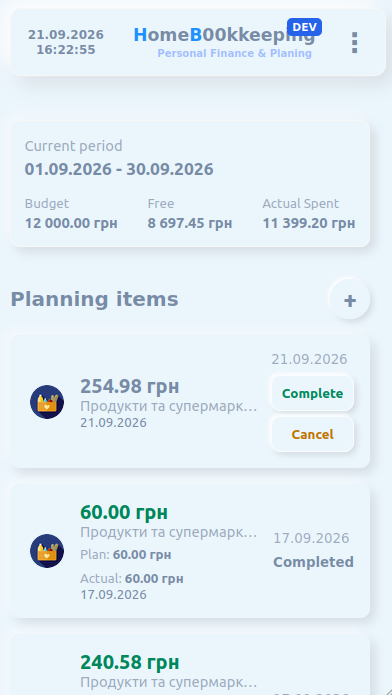
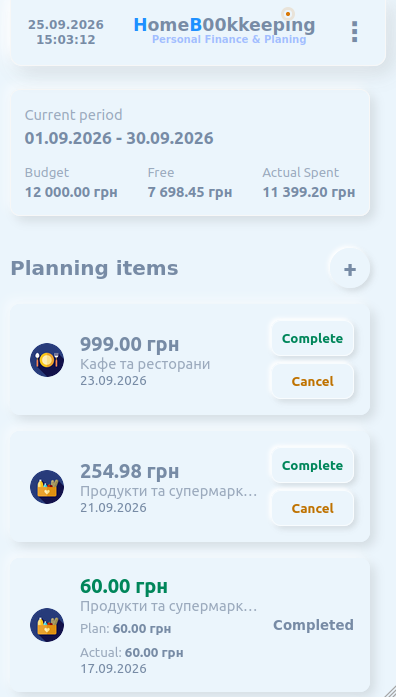
added screens updated readme

diff --git a/frontend/hbapp/pages/PlaningPage.js b/frontend/hbapp/pages/PlaningPage.js
@@ -347,7 +347,7 @@ export default class PlaningPage extends AbstractClass {
 			actions.push('<button class="planing-status-btn" type="button" data-action="planning-pending" data-status="pending">Pending</button>')
 		}
 
-		return actions.length ? `<div class="planing-item-actions 222">${actions.join('')}</div>` : ''
+		return actions.length ? `<div class="planing-item-actions">${actions.join('')}</div>` : ''
 	}
 
 	getTransactionInfoTemplate(item, compact = false) {
@@ -417,8 +417,8 @@ export default class PlaningPage extends AbstractClass {
 						<span>${this.formatPlanningDate(item.date)}</span>
 					</div>
 				</button>
-				<div class="planing-item-meta d-none">
-					<span>${this.formatPlanningDate(item.date)}</span>
+				<div class="planing-item-meta">
+					<!--span>${this.formatPlanningDate(item.date)}</span-->
 					<button class="planing-transaction-btn d-none" type="button" data-action="planning-transactions-open" data-itemid="${item.id}">Transactions</button>
 					${status === 'pending' ? actionsHtml : `<strong>${this.getStatusLabel(status)}</strong>`}
 				</div>

diff --git a/frontend/hbapp/assets/styles/main.css b/frontend/hbapp/assets/styles/main.css
@@ -1135,7 +1135,7 @@ img.pb-icon {
 }
 
 .home-month-tooltip-card {
-	background: rgba(255,255,255,.45);
+	background: rgba(255,255,255,.9);
 	border: 1px solid rgba(119,139,165,.18);
 	border-radius: 8px;
 	box-shadow: -5px -5px 10px rgba(255,255,255,.55), 5px 5px 14px rgba(70,70,70,.18);
@@ -4001,12 +4001,12 @@ textarea.planing-textarea {
 }
 
 .planing-item-actions {
-/*	align-items: stretch;*/
-/*	display: flex;
-	flex: 0 0 auto;*/
-/*	flex-direction: column;*/
-/*	gap: .45rem;*/
-/*	justify-content: flex-end;*/
+	align-items: stretch;
+	display: flex;
+	flex: 0 0 auto;
+	flex-direction: column;
+	gap: .45rem;
+	justify-content: flex-end;
 }
 
 .planing-item-meta strong,

diff --git a/README.md b/README.md
@@ -16,7 +16,7 @@ The project is designed around a practical question:
 > plan?**
 
 <p align="center">
-<img src="docs/screenshots/balance-desktop.png" width="90%" alt="HBOO balance dashboard">
+<img src="docs/screenshots/home-desktop.png" width="90%" alt="HBOO Home analytics dashboard">
 </p>
 
 ## Highlights
@@ -25,6 +25,8 @@ The project is designed around a practical question:
   transactions
 - **Financial Planning** — budgets, planned expenses, Actual Spending,
   and safe-to-spend calculations
+- **Financial Analytics** — Income vs Expenses trends, category spending,
+  local-history coverage awareness, and transaction drill-down
 - **Smart Completion** — suggests bank transactions that may correspond
   to planned expenses
 - **Local-first PWA** — financial data remains available without a
@@ -101,16 +103,24 @@ modifications are stopped instead of silently overwriting data.
 
 ## Product Direction Overview
 
-The next major area is the **Home analytics dashboard**, starting with:
+HBOO now combines daily financial state, planning, bank transactions, and
+**local-first analytics** in a single application.
 
-- Income vs Expenses over 6- and 12-month periods
-- spending by category for a selected period
-- financial summary and planning context
-- Plan vs Fact analytics
+The Home dashboard provides:
 
-Future development includes receipt scanning and structured purchase
-extraction, allowing transaction-level analytics to expand into
-**purchase, product, store, quantity, and price-history analytics**.
+- Income vs Expenses analytics for 6- and 12-month periods
+- monthly Income / Expenses / Net details
+- spending by category for selected periods
+- local transaction-history coverage awareness
+- category-to-Transactions drill-down
+- offline analytics from locally cached transaction history
+
+The next major product area is **Plan vs Fact**, connecting planned expenses
+with their actual bank transactions and comparing planned and actual spending.
+
+Future development includes recurring planning items, receipt scanning and
+structured purchase extraction, allowing transaction-level analytics to expand
+into **purchase, product, store, quantity, and price-history analytics**.
 
 ------------------------------------------------------------------------
 
@@ -333,6 +343,25 @@ an allowed DEV DB operation, verify that the selected database is
 exactly `hboo_dev`.
 
 ## Features
+
+### Home Analytics
+
+Home is the main financial analytics dashboard. It is a read-only local-first
+projection over transaction, category, balance, and planning data already
+available in HBOO. Opening Home does not trigger bank synchronization.
+
+It provides:
+
+- Income vs Expenses for 6- and 12-month periods
+- monthly Income / Expenses / Net details through compact chart tooltips
+- spending by category for custom periods
+- category-to-Transactions drill-down with the selected date range preserved
+- awareness of complete, partial, and unavailable local transaction history
+- offline analytics from previously cached transaction data
+
+Incomplete history is represented explicitly rather than silently treating
+missing local data as zero spending. Analytics use the same IndexedDB-backed
+local-first model as the rest of HBOO.
 
 ### Bank Balances
 
@@ -616,15 +645,17 @@ HBOO is designed for both desktop and mobile usage.
 
 <p align="center">
 
-<img src="docs/screenshots/balance-mobile.png" width="30%" alt="HBOO balance mobile">
-<img src="docs/screenshots/transactions-mobile.png" width="30%" alt="HBOO transactions mobile">
+<img src="docs/screenshots/home-mobile.png" width="30%" alt="HBOO Home analytics mobile">
+<img src="docs/screenshots/sidebar-mobile.png" width="30%" alt="HBOO mobile financial workspace sidebar">
 <img src="docs/screenshots/planning-mobile.png" width="30%" alt="HBOO planning mobile">
 
 </p>
 
-The installed PWA supports fullscreen operation and offline startup.
-Mobile navigation uses the same financial model and application
-architecture as desktop.
+The installed PWA supports fullscreen operation and offline startup. The
+mobile experience intentionally avoids a conventional bottom navigation bar:
+the HBOO brand returns to Home, while the financial workspace/sidebar is
+revealed with the mobile swipe interaction. The same local-first financial
+model and application architecture are shared with desktop.
 
 ## From FIPL to HBOO Planning
 
@@ -671,24 +702,32 @@ an ORM.
 - MySQL 8
 - mkcert for local trusted HTTPS
 
-## Analytics Direction
+## Analytics
 
-The next major product area is the Home analytics dashboard.
-
-The first analytics stage will use financial data that already exists in
-HBOO:
+Home Analytics is implemented as a local-first read model over data already
+stored by HBOO rather than as a separate backend analytics subsystem.
 
 ``` text
 Home
-+-- Current financial summary
 +-- Income vs Expenses
 |   +-- 6 months
 |   +-- 1 year
+|   +-- monthly Income / Expenses / Net
+|   +-- local-history coverage
 +-- Spending by Category
-|   +-- current month
 |   +-- selected period
-+-- Recent / upcoming planning context
+|   +-- category drill-down to Transactions
++-- Financial context
+    +-- Available Today
+    +-- Planning
+    +-- Balance
+    +-- Transactions
 ```
+
+Analytics are calculated from locally cached transaction history. Coverage
+metadata distinguishes complete, partial, and unavailable history so missing
+data is not presented as a real zero. Category metadata comes from the same
+language-scoped category cache used by the rest of the application.
 
 A later receipt-processing layer can extend this into deeper drill-down:
 
@@ -700,8 +739,8 @@ Transactions
     -> Price history / stores / quantities
 ```
 
-This keeps the first analytics version useful with bank transaction data
-while leaving room for item-level purchase statistics later.
+This keeps the current analytics useful with bank transaction data while
+leaving room for item-level purchase statistics later.
 
 ## Product Direction
 
@@ -710,9 +749,6 @@ as a demonstration project.
 
 ### Near-term
 
-- Home analytics dashboard
-- Income vs Expenses history for 6- and 12-month periods
-- spending by category for selected periods
 - Plan vs Fact analytics
 - recurring planning items
 - improved Planning conflict-resolution UI
@@ -770,7 +806,7 @@ validation remain developer-driven.
 **Active development**
 
 The current milestone is a local-first PWA with bank synchronization,
-offline financial data, durable Planning synchronization, and
-conflict-aware multi-device behavior.
+offline financial data, durable Planning synchronization, conflict-aware
+multi-device behavior, and a local-first Home analytics dashboard.
 
-The next major product area is the Home analytics dashboard.
+The next major product area is **Plan vs Fact**.
